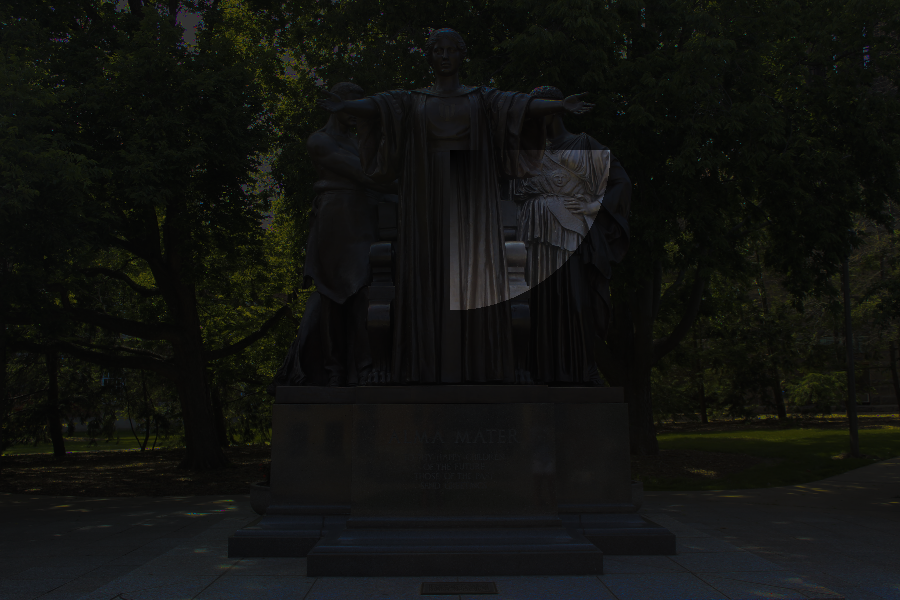
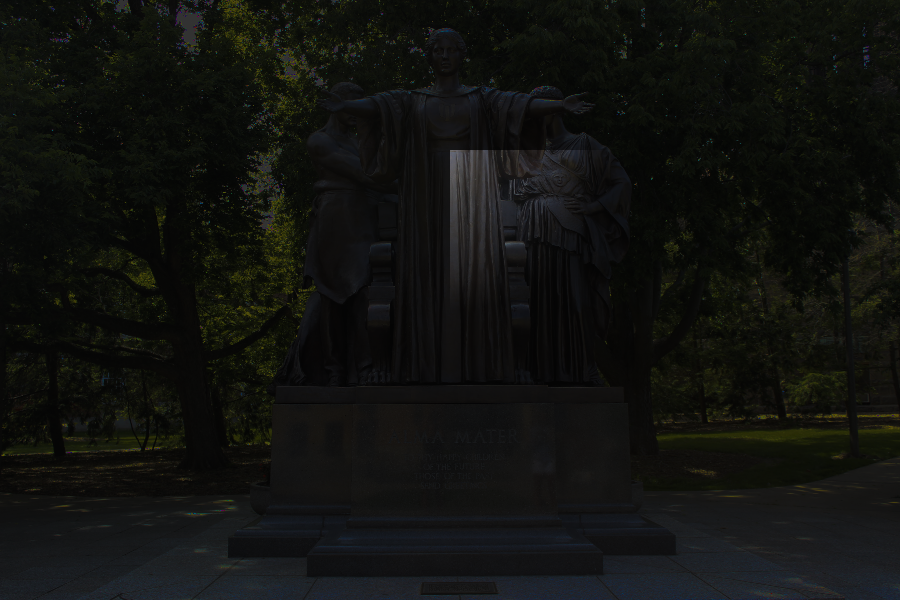
Distance Equation

Changed region(s): [[0.4978, 0.24, 0.6844, 0.54], [0.4978, 0.24, 0.56, 0.39]]

diff --git a/lab_intro/lab_intro.cpp b/lab_intro/lab_intro.cpp
@@ -67,8 +67,8 @@ PNG createSpotlight(PNG image, int centerX, int centerY)
     for (unsigned y = 0; y < image.height(); y++)
     {
       HSLAPixel & pixel = image.getPixel(x, y);
-      double distanceX = x - centerX;
-      double distanceY = y - centerY;
+      double distanceX = (x - centerX) * 1.0; 
+      double distanceY = (y - centerY) * 1.0;
       double distance = sqrt(pow(distanceX,2) + pow(distanceY,2));
       if(distance >= 160)
 	{
@@ -76,7 +76,7 @@ PNG createSpotlight(PNG image, int centerX, int centerY)
 	}
       else
 	{
-	  pixel.l = pixel.l * (distance/200); //200 b/c .5% per pixel 
+	  pixel.l = pixel.l * (1 - (distance/200)); //200 b/c .5% per pixel 
 	}
 
     }
